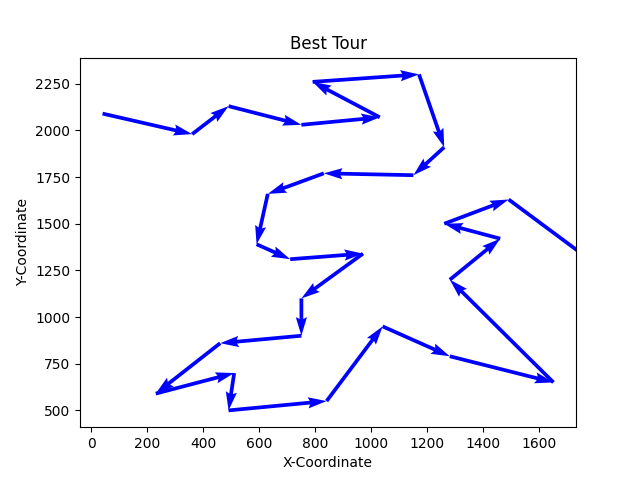
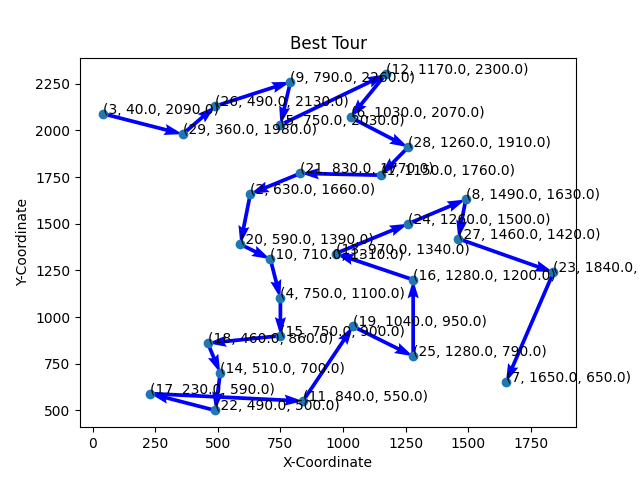
scatter plot with labels

Changed region(s): [[0.1562, 0.125, 1.0, 0.875], [0.2188, 0.9062, 0.875, 0.9375], [0.125, 0.9062, 0.1562, 0.9375]]

diff --git a/main.py b/main.py
@@ -12,6 +12,7 @@ import numpy as np
 # todo: create README.md
 
 
+
 def get_best_tour(ants, weights):
     best = calculate_cost(ants[0], weights)
     best_ant = 0
@@ -151,6 +152,12 @@ def print_output(tour, cost, iteration):
     plt.figure()
     plt.quiver(x[:-1], y[:-1], x[1:] - x[:-1], y[1:] - y[:-1], scale_units='xy', angles='xy', scale=1, color='b')
 
+    plt.scatter(x, y)
+    # plt.plot(x, y)
+    for i in range(len(x)):
+        city_num = tour[i] + 1
+        plt.annotate((city_num, x[i], y[i]), (x[i], y[i]))
+
     plt.xlabel('X-Coordinate')
     plt.ylabel('Y-Coordinate')
     plt.title('Best Tour')
@@ -159,34 +166,6 @@ def print_output(tour, cost, iteration):
 
     print('')
     print('Tour Map saved as best_tour.png')
-    #
-    #
-    # coordinates.reverse()
-    #
-    # x = np.array([x[0] for x in coordinates])
-    # y = np.array([y[1] for y in coordinates])
-    #
-    # plt.figure()
-    # plt.quiver(x[:-1], y[:-1], x[1:] - x[:-1], y[1:] - y[:-1], scale_units='xy', angles='xy', scale=1, color='b')
-    #
-    # plt.xlabel('X-Coordinate2')
-    # plt.ylabel('Y-Coordinate2')
-    # plt.title('Best Tour2')
-    #
-    # plt.savefig('best_tour2')
-
-    #
-    #
-    plt.figure()
-    plt.scatter(x, y)
-    plt.plot(x, y)
-    for i in range(len(x)):
-        city_num = tour[i] + 1
-        plt.annotate((city_num, x[i], y[i]), (x[i], y[i]))
-    plt.xlabel('X-Coordinate2')
-    plt.ylabel('Y-Coordinate2')
-    plt.title('Best Tour2')
-    plt.savefig('best_tour3')
 
     print('')
     print(coordinates)
